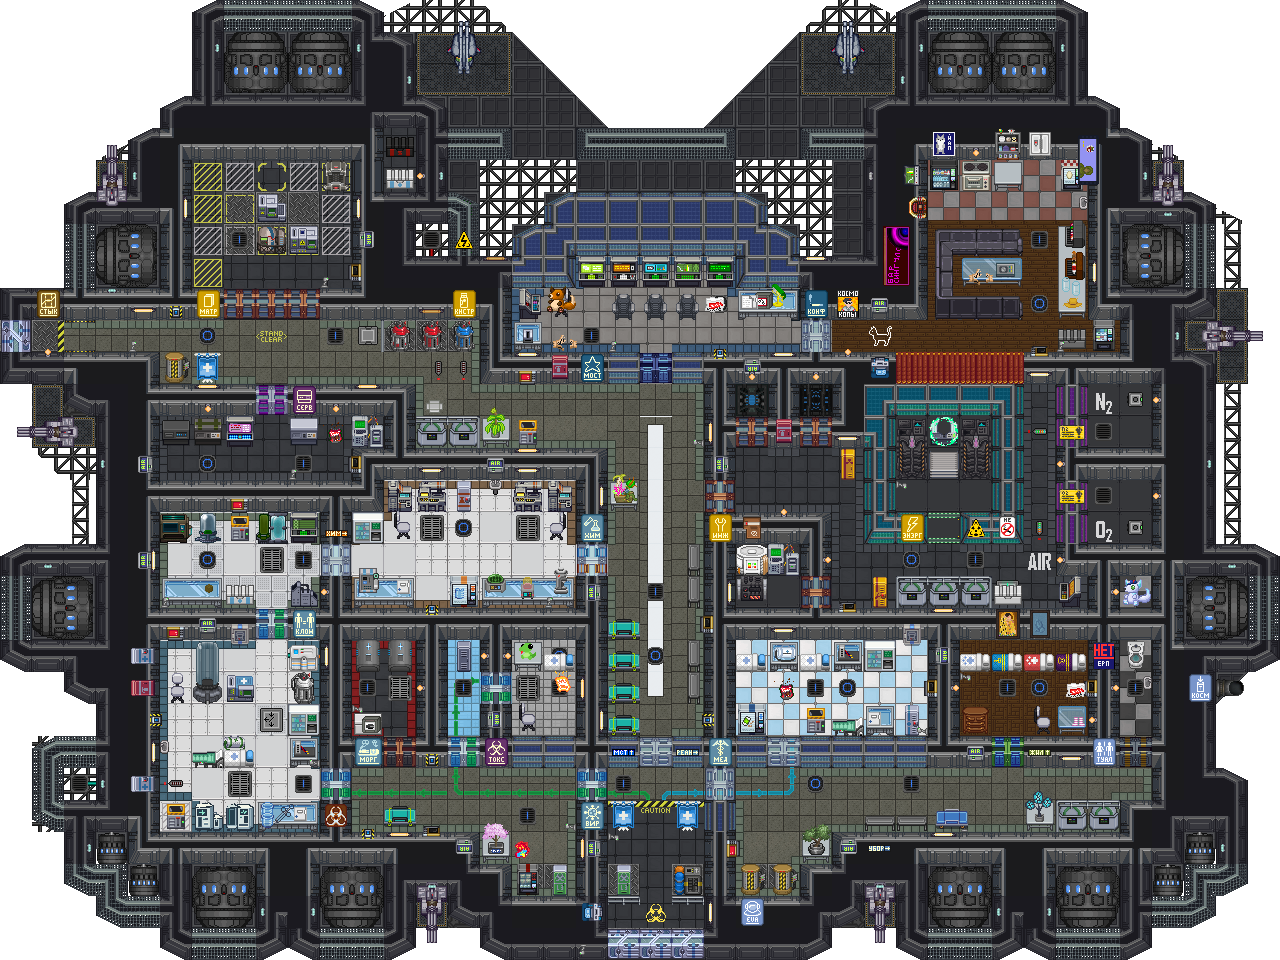
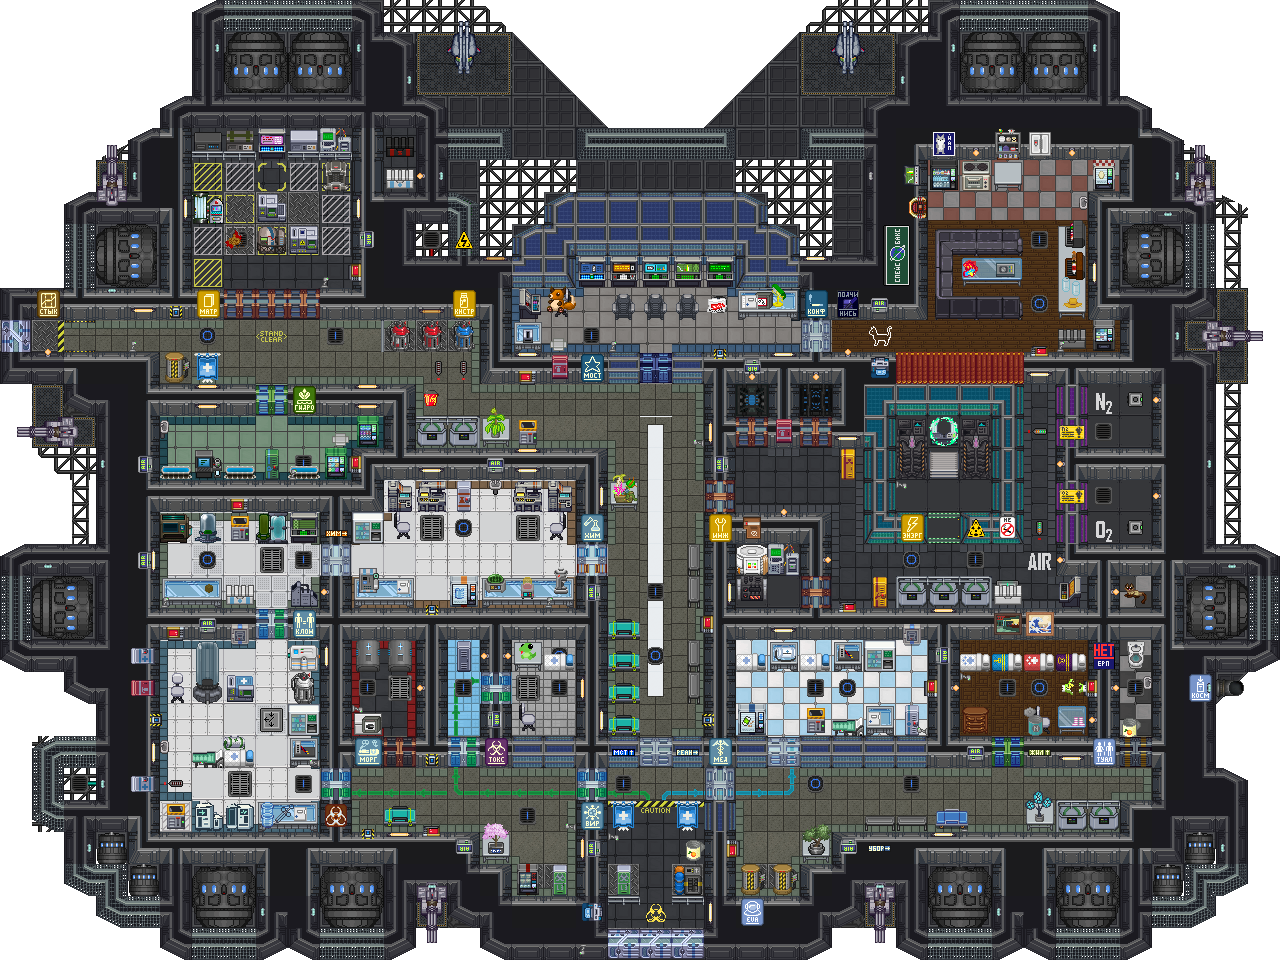
Add new company and shipyard shuttles: Hulk, Mackinaw, Umbra, Scarab, HMI Pod, Privateer, and Reaper

diff --git a/scripts/update-maps-checksums.js b/scripts/update-maps-checksums.js
@@ -38,6 +38,23 @@ const MAP_DIRS = [
 export function updateMapsChecksums(monolithDir, currentRepoDir) {
 	const checksumsPath = path.join(currentRepoDir, 'scripts', 'maps_checksums.json');
 
+	// Ensure blackhawk scarab is copied to blackhawk_scarab.yml to avoid collision with PDV scarab
+	const blackhawkScarabSrc = path.join(
+		monolithDir,
+		'Resources/SharedMaps/_Exodus/Shuttles/Companies/blackhawk/scarab.yml'
+	);
+	const blackhawkScarabDest = path.join(
+		monolithDir,
+		'Resources/SharedMaps/_Exodus/Shuttles/Companies/blackhawk/blackhawk_scarab.yml'
+	);
+	if (fs.existsSync(blackhawkScarabSrc)) {
+		try {
+			fs.copyFileSync(blackhawkScarabSrc, blackhawkScarabDest);
+		} catch (e) {
+			console.warn(`Could not copy blackhawk scarab: ${e.message}`);
+		}
+	}
+
 	const allMapFiles = [];
 	function walk(dir) {
 		if (!fs.existsSync(dir)) return;
@@ -63,6 +80,8 @@ export function updateMapsChecksums(monolithDir, currentRepoDir) {
 		if (EXCLUDED_POI_FILES.has(filename)) continue;
 
 		const relPath = path.relative(monolithDir, file).replace(/\\/g, '/');
+		if (relPath === 'Resources/SharedMaps/_Exodus/Shuttles/Companies/blackhawk/scarab.yml') continue;
+
 		const content = fs.readFileSync(file);
 		const hash = crypto.createHash('sha256').update(content).digest('hex');
 		checksums[relPath] = hash;

diff --git a/scripts/get-maps-to-render.js b/scripts/get-maps-to-render.js
@@ -55,6 +55,23 @@ export function getMapsToRender(monolithDir, currentRepoDir, options = {}) {
 
 	const staticFiles = fs.existsSync(staticDir) ? new Set(fs.readdirSync(staticDir)) : new Set();
 
+	// Ensure blackhawk scarab is copied to blackhawk_scarab.yml to avoid collision with PDV scarab
+	const blackhawkScarabSrc = path.join(
+		monolithDir,
+		'Resources/SharedMaps/_Exodus/Shuttles/Companies/blackhawk/scarab.yml'
+	);
+	const blackhawkScarabDest = path.join(
+		monolithDir,
+		'Resources/SharedMaps/_Exodus/Shuttles/Companies/blackhawk/blackhawk_scarab.yml'
+	);
+	if (fs.existsSync(blackhawkScarabSrc)) {
+		try {
+			fs.copyFileSync(blackhawkScarabSrc, blackhawkScarabDest);
+		} catch (e) {
+			console.warn(`Could not copy blackhawk scarab: ${e.message}`);
+		}
+	}
+
 	const allMapFiles = [];
 	function walk(dir) {
 		if (!fs.existsSync(dir)) return;
@@ -80,6 +97,8 @@ export function getMapsToRender(monolithDir, currentRepoDir, options = {}) {
 		if (EXCLUDED_POI_FILES.has(filename)) continue;
 
 		const relPath = path.relative(monolithDir, file).replace(/\\/g, '/');
+		if (relPath === 'Resources/SharedMaps/_Exodus/Shuttles/Companies/blackhawk/scarab.yml') continue;
+
 		const baseNoExt = path.basename(file, '.yml');
 
 		const hasImage =
